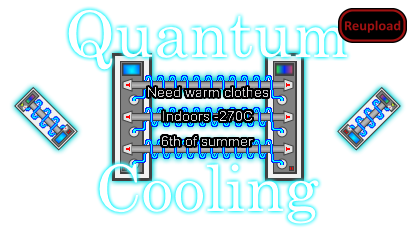
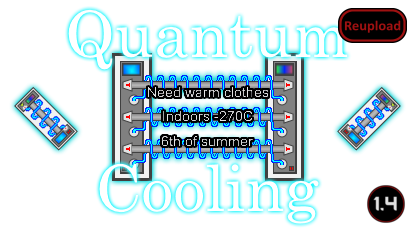
Removed the redundant translation-files

Changed region(s): [[0.8675, 0.7811, 0.9831, 0.9614]]

diff --git a/README.md b/README.md
@@ -88,4 +88,5 @@ Made for Game Version: 1.0.2059
 
 
 
+https://steamcommunity.com/sharedfiles/filedetails/changelog/2432699889]![Image](https://img.shields.io/github/v/release/emipa606/QuantumCooling?label=latest%20version&style=plastic&color=9f1111&labelColor=black)
 
